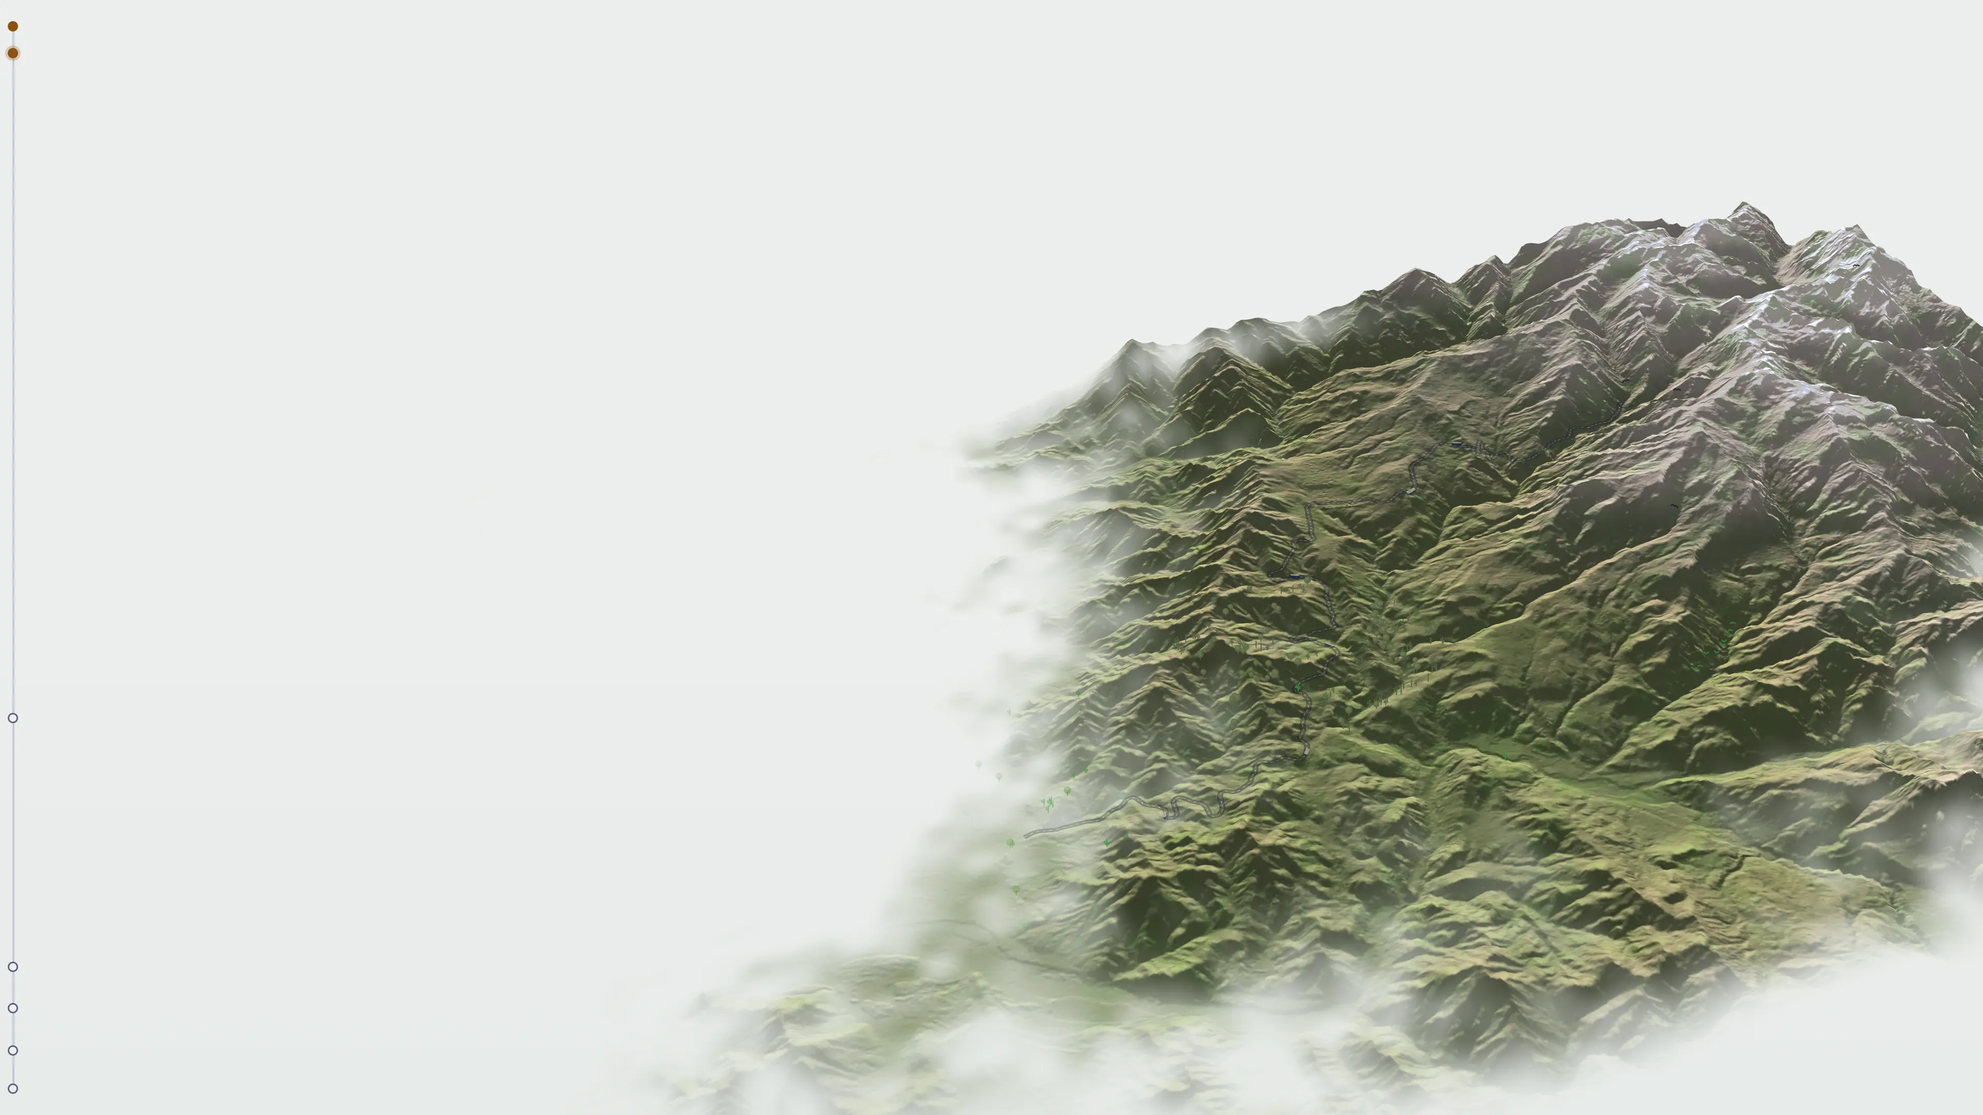
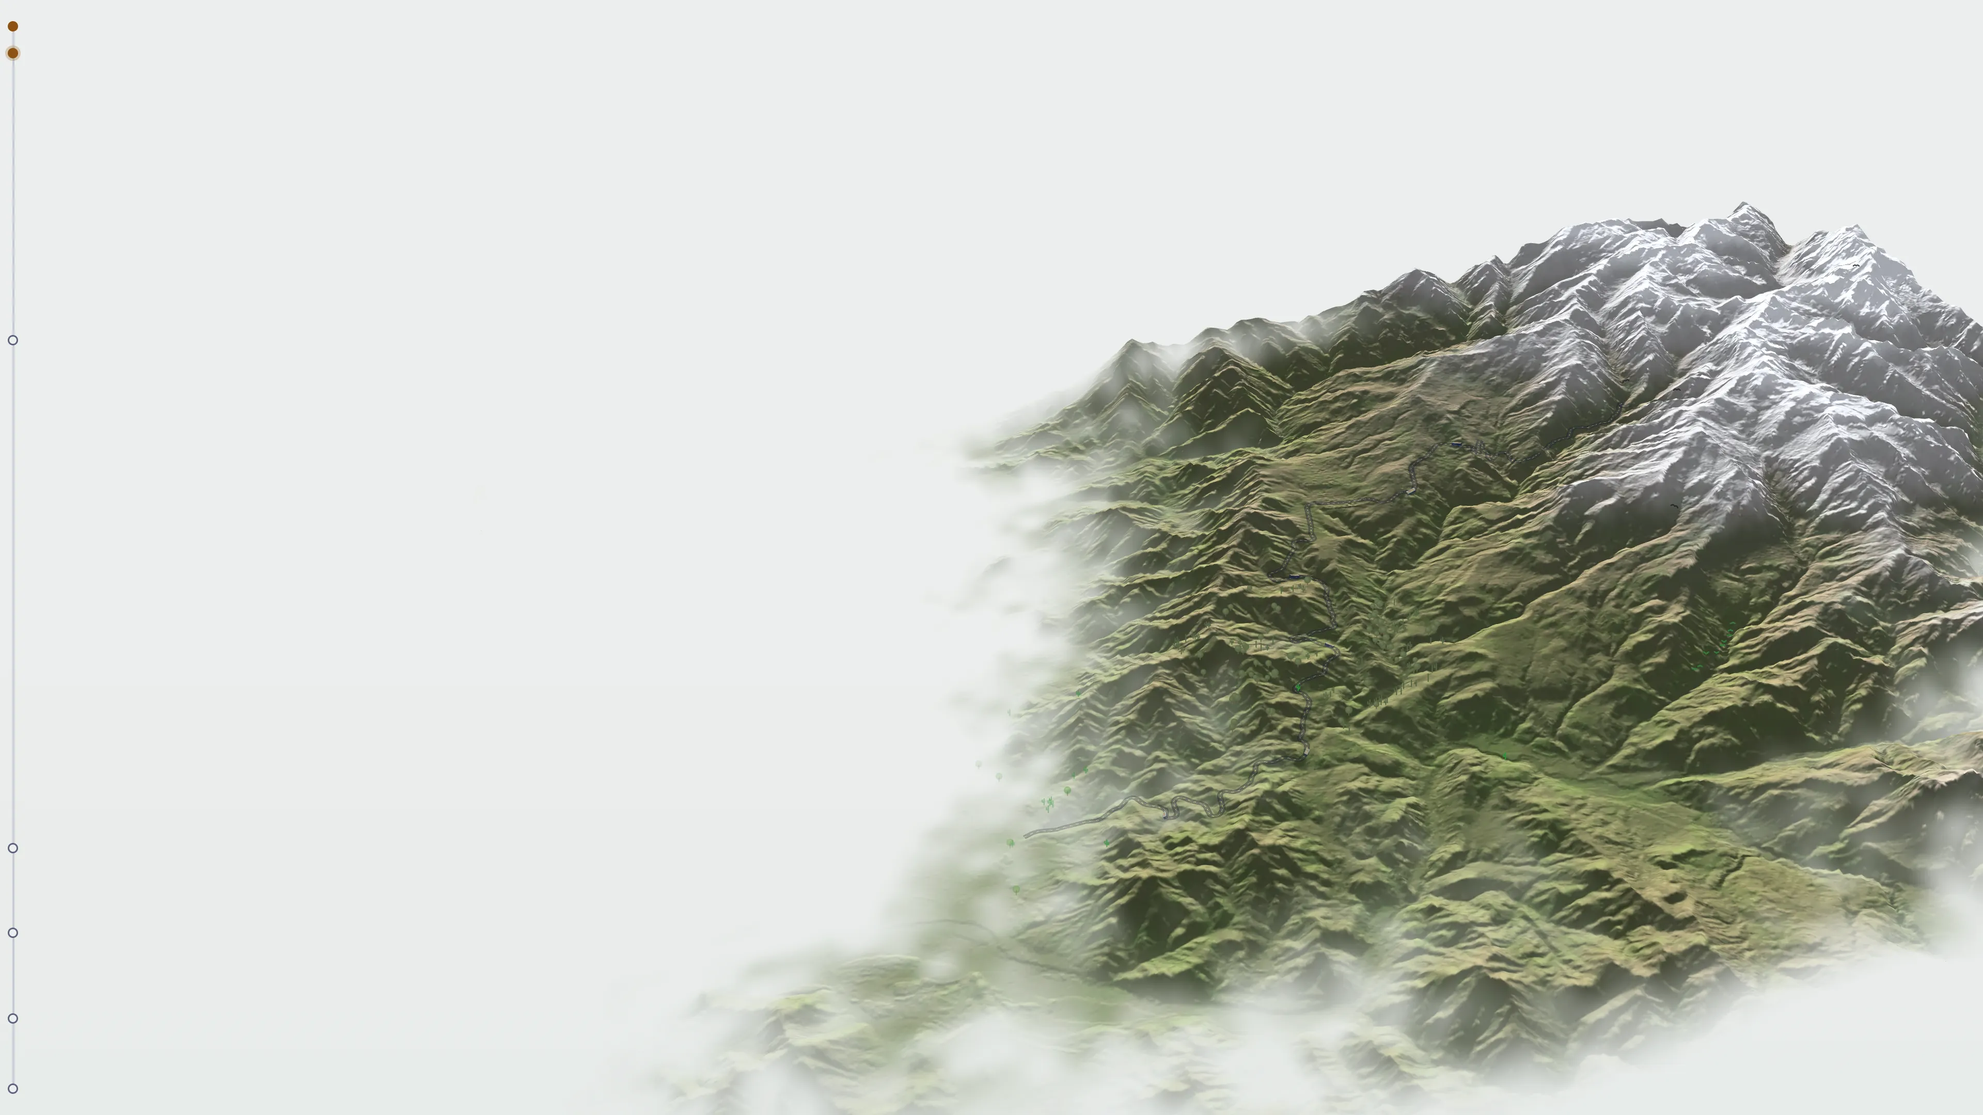
Mapa de inicio: más nieve en el tema claro; «Soporte técnico» destaca la H-25 al pasar el mouse y dice que el soporte es in situ, por nuestros técnicos capacitados (Benjamin, 2026-11-02)
Claude-Session: https://claude.ai/code/session_01T8S4gN2VgZnmZ6w4CaZyzn

Changed region(s): [[0.6875, 0.1861, 1.0, 0.5583]]

diff --git a/flota-3d.js b/flota-3d.js
@@ -54,7 +54,7 @@
     oscuro: { niebla: [0.008, 0.016, 0.075], brillo: 1.1, lavado: 0.45, verde: 0.3, bruma: [0.05, 0.07, 0.14], papel: [0.008, 0.016, 0.065], velo: true, borde: [0.004, 0.012, 0.06],
               calzada: [0.15, 0.18, 0.34], linea: [0.96, 0.77, 0.54], panel: "rgba(1,4,20,.7)", focos: true,
               cielo: ["#000004", "#01030f", "#01030f"] },  // sin banda azul abajo: el velo deja ver el cielo (2026-10-30)
-    claro:  { niebla: [0.922, 0.933, 0.925], brillo: 1.04, lavado: 0.36, verde: 0.6, bruma: [0.70, 0.76, 0.82], papel: [0.922, 0.933, 0.925], velo: true, borde: [0.08, 0.09, 0.14],
+    claro:  { niebla: [0.922, 0.933, 0.925], nieve: 0.9, brillo: 1.04, lavado: 0.36, verde: 0.6, bruma: [0.70, 0.76, 0.82], papel: [0.922, 0.933, 0.925], velo: true, borde: [0.08, 0.09, 0.14],
               calzada: [0.2, 0.22, 0.29], linea: [0.97, 0.8, 0.5], panel: "rgba(244,246,245,.86)", focos: false,
               cielo: ["#ebeeec", "#ebeeec", "#e7ebe9"] }
   };
@@ -152,7 +152,7 @@
       "attribute vec3 aPos; attribute vec2 aUV; uniform mat4 uMVP; varying vec2 vUV; varying vec3 vPos;" +
       "void main(){ vUV = aUV; vPos = aPos; gl_Position = uMVP * vec4(aPos, 1.0); }",
       "precision mediump float; uniform sampler2D uTex; varying vec2 vUV; varying vec3 vPos; " + NIEBLA + VELO +
-      "uniform float uBrillo, uLavado, uVerde, uOpac; uniform vec3 uPapel, uBruma;" +
+      "uniform float uBrillo, uLavado, uVerde, uOpac, uNieve; uniform vec3 uPapel, uBruma;" +
       // color más verde y realista (Benjamin, 2026-10-30): la textura aporta el sombreado y la nieve; encima, pisos de
       // vegetación de Chile central según la altura (valle agrícola, bosque esclerófilo, matorral andino, roca),
       // con manchas de ruido para que no se vea como franjas, y bruma azulada con la distancia
@@ -166,7 +166,11 @@
       " bio = mix(bio, vec3(0.50, 0.46, 0.42), smoothstep(2300.0, 3000.0, h + n * 400.0));" +
       " bio *= mix(vec3(1.0), vec3(0.9, 1.04, 0.86), smoothstep(0.4, 0.8, n));" +
       " vec3 c = bio * sombra * 1.25; float nieve = smoothstep(0.52, 0.72, lum) * smoothstep(2400.0, 3100.0, h);" +
-      " return mix(c, t * 1.04, nieve); }" +
+      " c = mix(c, t * 1.04, nieve);" +
+      // tema claro: la textura de día casi no trae nieve; se agrega por altura, con su sombreado (Benjamin, 2026-11-02:
+      // «más nieve en la cordillera, como en el oscuro»)
+      " float nv = uNieve * smoothstep(2350.0, 3150.0, h + n * 500.0) * smoothstep(0.08, 0.3, lum);" +
+      " return mix(c, vec3(0.96, 0.97, 0.99) * clamp(sombra * 0.85, 0.5, 1.2), nv); }" +
       "void main(){ vec3 t = texture2D(uTex, vUV).rgb; vec3 c = mix(t, pisos(t), uVerde) * uBrillo; c = mix(c, uPapel, uLavado);" +
       " float f = smoothstep(uNiebla.x, uNiebla.y, distance(vPos, uOjo));" +
       " c = mix(c, uBruma, smoothstep(0.0, 1.0, distance(vPos, uOjo) / uNiebla.y) * 0.35 * uVerde);" +
@@ -435,7 +439,7 @@
     // Benjamin, 2026-11-02) y toman fuerza con SACEL; al pasar sobre «Rastreo satelital de flotas», enteros
     resaltes();
     tenue = 0.4 + 0.6 * suave(Math.max(0, Math.min(1, (pCam - SACEL_ENTRA[0]) / (SACEL_ENTRA[1] - SACEL_ENTRA[0]))));
-    tenue = Math.max(tenue, RES.flota);
+    tenue = Math.max(tenue, RES.flota, RES.ruta);
     // terreno
     gl.useProgram(pTerreno);
     atributo(pTerreno, "aPos", bufTerreno, 3, 5, 0); atributo(pTerreno, "aUV", bufTerreno, 2, 5, 3);
@@ -447,6 +451,7 @@
     gl.uniform1f(gl.getUniformLocation(pTerreno, "uLavado"), TM.lavado * suave(pCam));   // el lavado llega con el descenso
     gl.uniform3fv(gl.getUniformLocation(pTerreno, "uPapel"), TM.papel);
     gl.uniform1f(gl.getUniformLocation(pTerreno, "uVerde"), TM.verde);
+    gl.uniform1f(gl.getUniformLocation(pTerreno, "uNieve"), TM.nieve || 0);
     // en el tramo quieto el relieve se vuelve translúcido, para que los datos y la ruta manden al final (2026-10-30)
     opacMapa = 1 - MAPA_FINAL * suave(pDatos);
     // la flora y fauna se transparentan con un desfase marcado: empiezan cuando el relieve ya va en el 75 % de su cambio
@@ -485,6 +490,7 @@
 
     // capa plana: focos, registro y tramas
     cr.setTransform(1, 0, 0, 1, 0, 0); cr.clearRect(0, 0, capa.width, capa.height); cr.setTransform(dpr, 0, 0, dpr, 0, 0);
+    if (RES.ruta > 0.01) ruta(RES.ruta);
     cr.globalCompositeOperation = "lighter"; cr.globalAlpha = tenue;
     focos.forEach(function (f) {
       var q = proyectar(f.frente[0], f.frente[1], f.frente[2]); if (!q) return;
@@ -508,13 +514,35 @@
 
   // ─── etiquetas del panorama que señalan en el mapa (index.html, .haceres [data-resalta]): flota, nube o bus ───
   var acumPc = 0, envioPc = -1;                // «Hardware e IoT»: señales juntadas en la nube y envío en curso
-  var RES = { flota: 0, nube: 0, bus: 0, pc: 0 }, META = { flota: 0, nube: 0, bus: 0, pc: 0 }, tRes = 0;
+  var RES = { flota: 0, nube: 0, bus: 0, pc: 0, ruta: 0 }, META = { flota: 0, nube: 0, bus: 0, pc: 0, ruta: 0 }, tRes = 0;
   [].forEach.call(document.querySelectorAll("[data-resalta]"), function (el) {
     var ks = el.getAttribute("data-resalta").split(/\s+/);        // una etiqueta puede señalar varias cosas («flota nube»)
     function on() { ks.forEach(function (k) { META[k] = 1; }); paso(0); } function off() { ks.forEach(function (k) { META[k] = 0; }); paso(0); }
     el.addEventListener("mouseenter", on); el.addEventListener("mouseleave", off);
     el.addEventListener("focus", on); el.addEventListener("blur", off);
   });
+  // «Soporte técnico» (Benjamin, 2026-11-02): se destaca la H-25 entera, con un halo cobre y un brillo que la recorre
+  var PASO_RUTA = 3;
+  function ruta(op) {
+    var pts = [];
+    for (var k = 0; k < R.length; k += PASO_RUTA) {
+      var x = R[k][0], z = R[k][1], y = elevBase(x, z, ER[k]) + 20, q = proyectar(x, y, z);
+      pts.push(q ? [q[0], q[1], veloEn(q[0], q[1], y / EXAG), acumR[k]] : null);
+    }
+    var col = PULSO[tema].normal, largo = acumR[acumR.length - 1], brillo = (sim.reloj * 0.08) % 1;
+    cr.save(); cr.lineCap = "round"; cr.lineJoin = "round";
+    [[9, 0.16], [2.6, 0.85]].forEach(function (capa) {
+      cr.lineWidth = capa[0];
+      for (var i = 1; i < pts.length; i++) {
+        var a = pts[i - 1], b = pts[i]; if (!a || !b) continue;
+        // el brillo: un tramo más claro que avanza por la ruta
+        var u = b[3] / largo, d = Math.abs(u - brillo), e = Math.max(0, 1 - Math.min(d, 1 - d) / 0.05);
+        cr.strokeStyle = "rgba(" + col + "," + (op * Math.min(a[2], b[2]) * Math.min(1, capa[1] * (1 + e * 0.8))).toFixed(3) + ")";
+        cr.beginPath(); cr.moveTo(a[0], a[1]); cr.lineTo(b[0], b[1]); cr.stroke();
+      }
+    });
+    cr.restore();
+  }
   function resaltes() {                         // se acercan a su meta en ~0,3 s (de inmediato con movimiento reducido)
     var t = performance.now(), dt = tRes ? Math.min(0.1, (t - tRes) / 1000) : 0; tRes = t;
     for (var k in RES) RES[k] = quieto ? META[k] : RES[k] + (META[k] - RES[k]) * Math.min(1, dt * 8);

diff --git a/index.html b/index.html
@@ -10,7 +10,7 @@
      externo; sin formularios ni objetos incrustados. scripts/ensamblar.py completa los hashes de los scripts en línea. -->
 <meta http-equiv="Content-Security-Policy" content="default-src 'self'; script-src 'self' 'sha256-i1uhbxgs379buIGf1G29L+VIdlkQ9jLfFOSW2JcQ5h0='; style-src 'self' 'unsafe-inline'; img-src 'self' data:; font-src 'self'; connect-src 'self'; object-src 'none'; base-uri 'self'; form-action 'none'">
 <link rel="icon" href="img/logo-andes.svg" type="image/svg+xml">
-<link rel="stylesheet" href="base.css?v=20261103y">
+<link rel="stylesheet" href="base.css?v=20261103z">
 <script>
 /* Antes de pintar: tema elegido (o el del sistema). */
 (function () {
@@ -79,7 +79,7 @@
         <li><svg viewBox="0 0 24 24" aria-hidden="true"><path d="M4 7h6l3 3h7M4 17h5l3-3h8M13 10v4"/><circle class="ac" cx="13" cy="10" r="1.6"/><circle class="ac" cx="12" cy="14" r="1.6"/><circle cx="4" cy="7" r="1.3"/><circle cx="4" cy="17" r="1.3"/></svg><span><b>Diseño e investigación</b><small>Circuitos impresos (PCB), sistemas de control automático e I+D en electrónica, computación y comunicaciones.</small></span></li>
         <li data-resalta="bus nube pc" tabindex="0"><svg viewBox="0 0 24 24" aria-hidden="true"><rect x="3" y="9" width="14" height="11" rx="1.5"/><rect class="ac" x="6" y="12" width="5" height="5" rx=".8"/><path d="M13 13h2M13 16h2M17 9V5"/><path class="ac" d="M19.5 3.5a3.5 3.5 0 0 1 0 4M21.5 2a6 6 0 0 1 0 7"/></svg><span><b>Hardware e IoT</b><small>Diseñamos y fabricamos hardware que se conecta a internet: del tacógrafo a bordo a la nube.</small></span></li>
         <li data-resalta="flota" tabindex="0"><svg viewBox="0 0 24 24" aria-hidden="true"><path d="M12 21s-6-5.2-6-10a6 6 0 0 1 12 0c0 4.8-6 10-6 10z"/><circle class="ac" cx="12" cy="11" r="2.2"/></svg><span><b>Rastreo de flotas</b><small>Con SACEL, la conducción de buses interurbanos y camiones de carga pesada, en línea.</small></span></li>
-        <li><svg viewBox="0 0 24 24" aria-hidden="true"><path d="M14.5 5.5a4 4 0 0 0-5 5L4 16l4 4 5.5-5.5a4 4 0 0 0 5-5l-2.5 2.5-2.5-.5-.5-2.5z"/></svg><span><b>Soporte técnico</b><small>Servicio técnico para empresas del transporte; instalamos SACEL en buses y camiones.</small></span></li>
+        <li data-resalta="ruta" tabindex="0"><svg viewBox="0 0 24 24" aria-hidden="true"><path d="M14.5 5.5a4 4 0 0 0-5 5L4 16l4 4 5.5-5.5a4 4 0 0 0 5-5l-2.5 2.5-2.5-.5-.5-2.5z"/></svg><span><b>Soporte técnico</b><small>Soporte in situ, por nuestros técnicos capacitados, para empresas del transporte; instalamos SACEL en buses y camiones.</small></span></li>
       </ul>
     </div>
     <section class="capa capa-sacel" aria-labelledby="t-sacel">
@@ -295,14 +295,14 @@
 </footer>
 <!-- /pie -->
 
-<script src="sitio.js?v=20261103y"></script>
-<script src="avance.js?v=20261103y"></script>
-<script src="datos/h25.js?v=20261103y"></script>
-<script src="flota-sim.js?v=20261103y"></script>
-<script src="flota-mapa.js?v=20261103y"></script>
-<script src="flota-3d.js?v=20261103y"></script>
-<script src="clientes.js?v=20261103y"></script>
-<script src="productos-nube.js?v=20261103y"></script>
-<script src="etapas.js?v=20261103y"></script>
+<script src="sitio.js?v=20261103z"></script>
+<script src="avance.js?v=20261103z"></script>
+<script src="datos/h25.js?v=20261103z"></script>
+<script src="flota-sim.js?v=20261103z"></script>
+<script src="flota-mapa.js?v=20261103z"></script>
+<script src="flota-3d.js?v=20261103z"></script>
+<script src="clientes.js?v=20261103z"></script>
+<script src="productos-nube.js?v=20261103z"></script>
+<script src="etapas.js?v=20261103z"></script>
 </body>
 </html>

diff --git a/productos.html b/productos.html
@@ -10,7 +10,7 @@
      externo; sin formularios ni objetos incrustados. scripts/ensamblar.py completa los hashes de los scripts en línea. -->
 <meta http-equiv="Content-Security-Policy" content="default-src 'self'; script-src 'self' 'sha256-i1uhbxgs379buIGf1G29L+VIdlkQ9jLfFOSW2JcQ5h0='; style-src 'self' 'unsafe-inline'; img-src 'self' data:; font-src 'self'; connect-src 'self'; object-src 'none'; base-uri 'self'; form-action 'none'">
 <link rel="icon" href="img/logo-andes.svg" type="image/svg+xml">
-<link rel="stylesheet" href="base.css?v=20261103y">
+<link rel="stylesheet" href="base.css?v=20261103z">
 <script>
 /* Antes de pintar: tema elegido (o el del sistema). */
 (function () {
@@ -203,10 +203,10 @@
   <p class="atribucion">Sitio diseñado por BM-G y desarrollado por BM-G y Claude · Mapa y relieve: © <a href="https://www.openstreetmap.org/copyright">OpenStreetMap</a> (ODbL), Terrain Tiles (Mapzen, AWS) · Especies: <a href="https://www.inaturalist.org">iNaturalist</a> (CC BY-NC, de sus autores)</p>
 </footer>
 <!-- /pie -->
-<script src="sitio.js?v=20261103y"></script>
-<script src="avance.js?v=20261103y"></script>
-<script src="datos/tacografo-modelo.js?v=20261103y"></script>
-<script src="tacografo-3d.js?v=20261103y"></script>
-<script src="etapas.js?v=20261103y"></script>
+<script src="sitio.js?v=20261103z"></script>
+<script src="avance.js?v=20261103z"></script>
+<script src="datos/tacografo-modelo.js?v=20261103z"></script>
+<script src="tacografo-3d.js?v=20261103z"></script>
+<script src="etapas.js?v=20261103z"></script>
 </body>
 </html>

diff --git a/empresa.html b/empresa.html
@@ -10,7 +10,7 @@
      externo; sin formularios ni objetos incrustados. scripts/ensamblar.py completa los hashes de los scripts en línea. -->
 <meta http-equiv="Content-Security-Policy" content="default-src 'self'; script-src 'self' 'sha256-i1uhbxgs379buIGf1G29L+VIdlkQ9jLfFOSW2JcQ5h0='; style-src 'self' 'unsafe-inline'; img-src 'self' data:; font-src 'self'; connect-src 'self'; object-src 'none'; base-uri 'self'; form-action 'none'">
 <link rel="icon" href="img/logo-andes.svg" type="image/svg+xml">
-<link rel="stylesheet" href="base.css?v=20261103y">
+<link rel="stylesheet" href="base.css?v=20261103z">
 <script>
 /* Antes de pintar: tema elegido (o el del sistema). */
 (function () {
@@ -133,7 +133,7 @@
   <p class="atribucion">Sitio diseñado por BM-G y desarrollado por BM-G y Claude · Mapa y relieve: © <a href="https://www.openstreetmap.org/copyright">OpenStreetMap</a> (ODbL), Terrain Tiles (Mapzen, AWS) · Especies: <a href="https://www.inaturalist.org">iNaturalist</a> (CC BY-NC, de sus autores)</p>
 </footer>
 <!-- /pie -->
-<script src="sitio.js?v=20261103y"></script>
-<script src="avance.js?v=20261103y"></script>
+<script src="sitio.js?v=20261103z"></script>
+<script src="avance.js?v=20261103z"></script>
 </body>
 </html>

diff --git a/sacel.html b/sacel.html
@@ -10,7 +10,7 @@
      externo; sin formularios ni objetos incrustados. scripts/ensamblar.py completa los hashes de los scripts en línea. -->
 <meta http-equiv="Content-Security-Policy" content="default-src 'self'; script-src 'self' 'sha256-i1uhbxgs379buIGf1G29L+VIdlkQ9jLfFOSW2JcQ5h0='; style-src 'self' 'unsafe-inline'; img-src 'self' data:; font-src 'self'; connect-src 'self'; object-src 'none'; base-uri 'self'; form-action 'none'">
 <link rel="icon" href="img/logo-andes.svg" type="image/svg+xml">
-<link rel="stylesheet" href="base.css?v=20261103y">
+<link rel="stylesheet" href="base.css?v=20261103z">
 <script>
 /* Antes de pintar: tema elegido (o el del sistema). */
 (function () {
@@ -600,7 +600,7 @@
   <p class="atribucion">Sitio diseñado por BM-G y desarrollado por BM-G y Claude · Mapa y relieve: © <a href="https://www.openstreetmap.org/copyright">OpenStreetMap</a> (ODbL), Terrain Tiles (Mapzen, AWS) · Especies: <a href="https://www.inaturalist.org">iNaturalist</a> (CC BY-NC, de sus autores)</p>
 </footer>
 <!-- /pie -->
-<script src="sitio.js?v=20261103y"></script>
-<script src="avance.js?v=20261103y"></script>
+<script src="sitio.js?v=20261103z"></script>
+<script src="avance.js?v=20261103z"></script>
 </body>
 </html>

diff --git a/servicios.html b/servicios.html
@@ -10,7 +10,7 @@
      externo; sin formularios ni objetos incrustados. scripts/ensamblar.py completa los hashes de los scripts en línea. -->
 <meta http-equiv="Content-Security-Policy" content="default-src 'self'; script-src 'self' 'sha256-i1uhbxgs379buIGf1G29L+VIdlkQ9jLfFOSW2JcQ5h0='; style-src 'self' 'unsafe-inline'; img-src 'self' data:; font-src 'self'; connect-src 'self'; object-src 'none'; base-uri 'self'; form-action 'none'">
 <link rel="icon" href="img/logo-andes.svg" type="image/svg+xml">
-<link rel="stylesheet" href="base.css?v=20261103y">
+<link rel="stylesheet" href="base.css?v=20261103z">
 <script>
 /* Antes de pintar: tema elegido (o el del sistema). */
 (function () {
@@ -128,7 +128,7 @@
   <p class="atribucion">Sitio diseñado por BM-G y desarrollado por BM-G y Claude · Mapa y relieve: © <a href="https://www.openstreetmap.org/copyright">OpenStreetMap</a> (ODbL), Terrain Tiles (Mapzen, AWS) · Especies: <a href="https://www.inaturalist.org">iNaturalist</a> (CC BY-NC, de sus autores)</p>
 </footer>
 <!-- /pie -->
-<script src="sitio.js?v=20261103y"></script>
-<script src="avance.js?v=20261103y"></script>
+<script src="sitio.js?v=20261103z"></script>
+<script src="avance.js?v=20261103z"></script>
 </body>
 </html>

diff --git a/contacto.html b/contacto.html
@@ -10,7 +10,7 @@
      externo; sin formularios ni objetos incrustados. scripts/ensamblar.py completa los hashes de los scripts en línea. -->
 <meta http-equiv="Content-Security-Policy" content="default-src 'self'; script-src 'self' 'sha256-i1uhbxgs379buIGf1G29L+VIdlkQ9jLfFOSW2JcQ5h0='; style-src 'self' 'unsafe-inline'; img-src 'self' data:; font-src 'self'; connect-src 'self'; object-src 'none'; base-uri 'self'; form-action 'none'">
 <link rel="icon" href="img/logo-andes.svg" type="image/svg+xml">
-<link rel="stylesheet" href="base.css?v=20261103y">
+<link rel="stylesheet" href="base.css?v=20261103z">
 <script>
 /* Antes de pintar: tema elegido (o el del sistema). */
 (function () {
@@ -73,7 +73,7 @@
   <p class="atribucion">Sitio diseñado por BM-G y desarrollado por BM-G y Claude · Mapa y relieve: © <a href="https://www.openstreetmap.org/copyright">OpenStreetMap</a> (ODbL), Terrain Tiles (Mapzen, AWS) · Especies: <a href="https://www.inaturalist.org">iNaturalist</a> (CC BY-NC, de sus autores)</p>
 </footer>
 <!-- /pie -->
-<script src="sitio.js?v=20261103y"></script>
-<script src="avance.js?v=20261103y"></script>
+<script src="sitio.js?v=20261103z"></script>
+<script src="avance.js?v=20261103z"></script>
 </body>
 </html>

diff --git a/iso.html b/iso.html
@@ -10,7 +10,7 @@
      externo; sin formularios ni objetos incrustados. scripts/ensamblar.py completa los hashes de los scripts en línea. -->
 <meta http-equiv="Content-Security-Policy" content="default-src 'self'; script-src 'self' 'sha256-i1uhbxgs379buIGf1G29L+VIdlkQ9jLfFOSW2JcQ5h0='; style-src 'self' 'unsafe-inline'; img-src 'self' data:; font-src 'self'; connect-src 'self'; object-src 'none'; base-uri 'self'; form-action 'none'">
 <link rel="icon" href="img/logo-andes.svg" type="image/svg+xml">
-<link rel="stylesheet" href="base.css?v=20261103y">
+<link rel="stylesheet" href="base.css?v=20261103z">
 <script>
 /* Antes de pintar: tema elegido (o el del sistema). */
 (function () {
@@ -87,7 +87,7 @@
   <p class="atribucion">Sitio diseñado por BM-G y desarrollado por BM-G y Claude · Mapa y relieve: © <a href="https://www.openstreetmap.org/copyright">OpenStreetMap</a> (ODbL), Terrain Tiles (Mapzen, AWS) · Especies: <a href="https://www.inaturalist.org">iNaturalist</a> (CC BY-NC, de sus autores)</p>
 </footer>
 <!-- /pie -->
-<script src="sitio.js?v=20261103y"></script>
-<script src="avance.js?v=20261103y"></script>
+<script src="sitio.js?v=20261103z"></script>
+<script src="avance.js?v=20261103z"></script>
 </body>
 </html>

diff --git a/privacidad.html b/privacidad.html
@@ -10,7 +10,7 @@
      externo; sin formularios ni objetos incrustados. scripts/ensamblar.py completa los hashes de los scripts en línea. -->
 <meta http-equiv="Content-Security-Policy" content="default-src 'self'; script-src 'self' 'sha256-i1uhbxgs379buIGf1G29L+VIdlkQ9jLfFOSW2JcQ5h0='; style-src 'self' 'unsafe-inline'; img-src 'self' data:; font-src 'self'; connect-src 'self'; object-src 'none'; base-uri 'self'; form-action 'none'">
 <link rel="icon" href="img/logo-andes.svg" type="image/svg+xml">
-<link rel="stylesheet" href="base.css?v=20261103y">
+<link rel="stylesheet" href="base.css?v=20261103z">
 <script>
 /* Antes de pintar: tema elegido (o el del sistema). */
 (function () {
@@ -79,7 +79,7 @@
   <p class="atribucion">Sitio diseñado por BM-G y desarrollado por BM-G y Claude · Mapa y relieve: © <a href="https://www.openstreetmap.org/copyright">OpenStreetMap</a> (ODbL), Terrain Tiles (Mapzen, AWS) · Especies: <a href="https://www.inaturalist.org">iNaturalist</a> (CC BY-NC, de sus autores)</p>
 </footer>
 <!-- /pie -->
-<script src="sitio.js?v=20261103y"></script>
-<script src="avance.js?v=20261103y"></script>
+<script src="sitio.js?v=20261103z"></script>
+<script src="avance.js?v=20261103z"></script>
 </body>
 </html>

diff --git a/partes/cabeza.html b/partes/cabeza.html
@@ -6,7 +6,7 @@
      externo; sin formularios ni objetos incrustados. scripts/ensamblar.py completa los hashes de los scripts en línea. -->
 <meta http-equiv="Content-Security-Policy" content="CSP">
 <link rel="icon" href="img/logo-andes.svg" type="image/svg+xml">
-<link rel="stylesheet" href="base.css?v=20261103y">
+<link rel="stylesheet" href="base.css?v=20261103z">
 <script>
 /* Antes de pintar: tema elegido (o el del sistema). */
 (function () {
